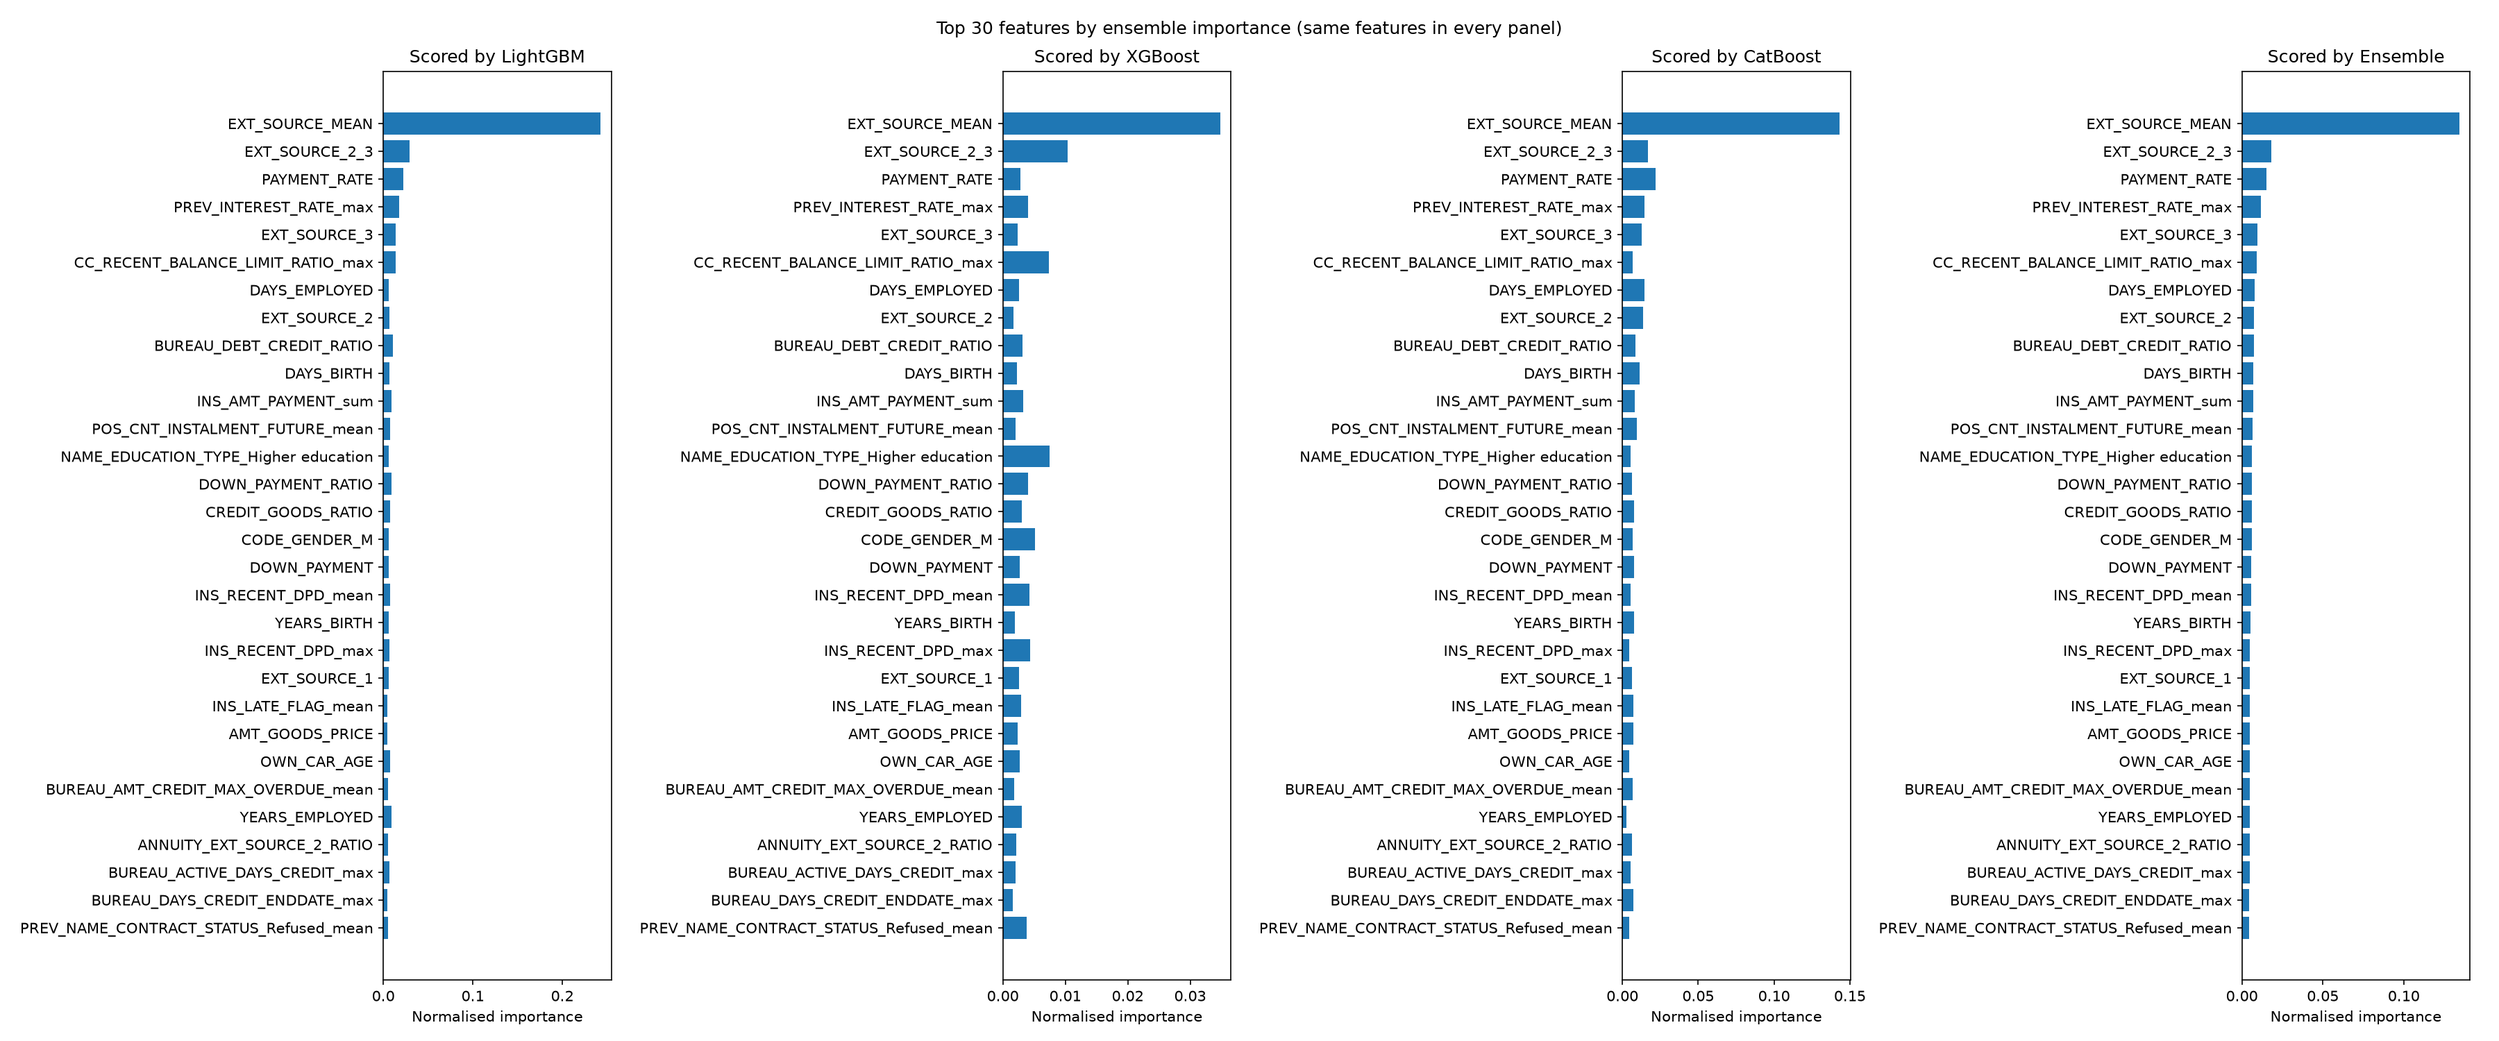
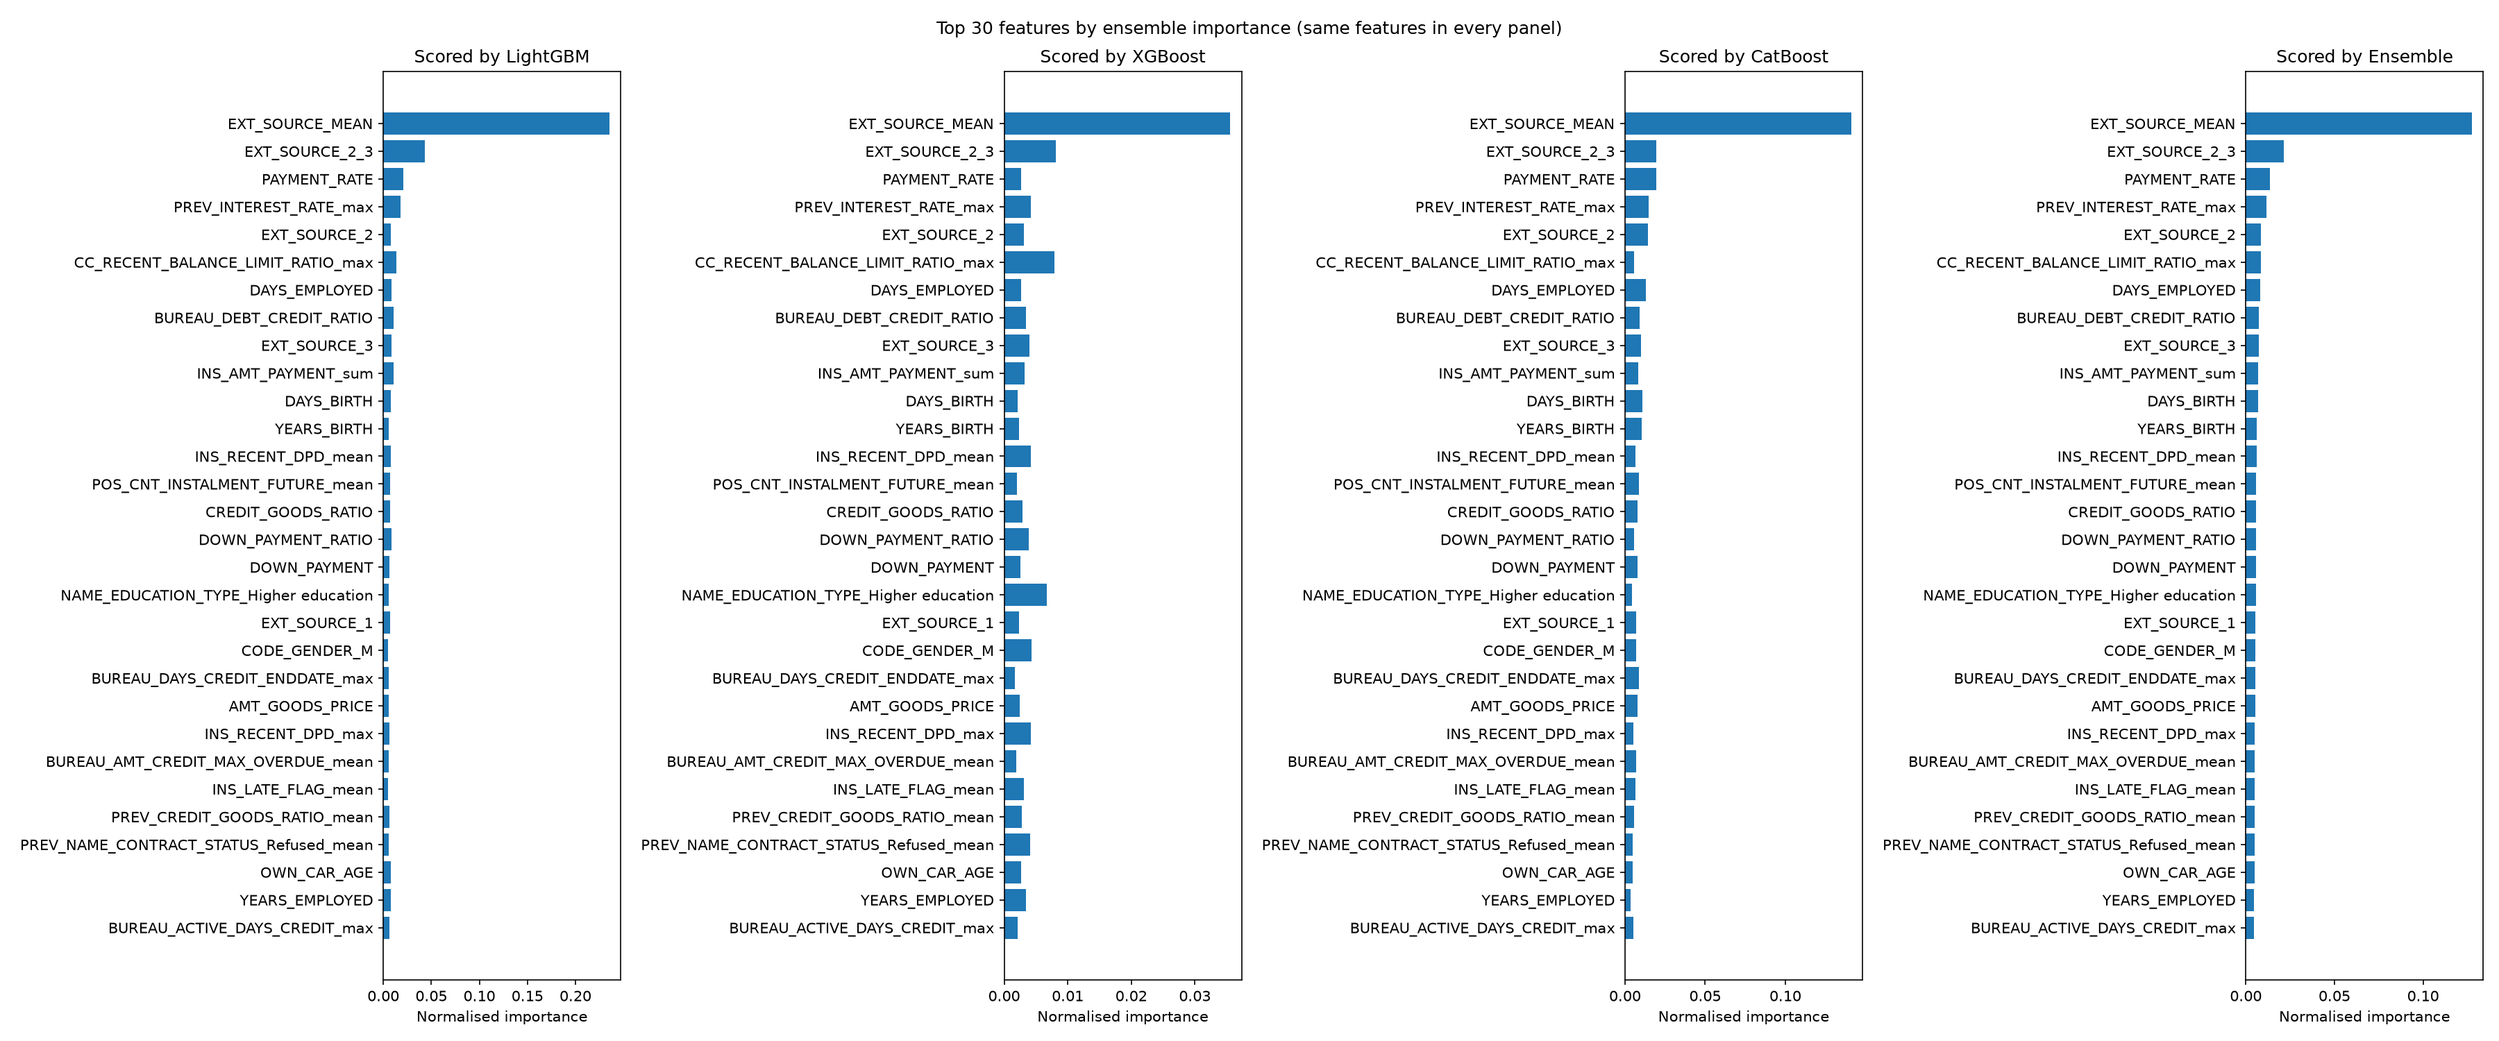
Update README.md

diff --git a/README.md b/README.md
@@ -28,27 +28,16 @@ flowchart LR
 
 <!-- results:start -->
 
-| Model | OOF AUC | Weight |
-|-------|---------|--------|
-| LightGBM | 0.79084 | 0.28 |
-| XGBoost | 0.79117 | 0.34 |
-| CatBoost | 0.79066 | 0.38 |
-| **Ensemble** | **0.79373** | - |
+| Model | OOF AUC | Holdout AUC | Weight |
+|-------|---------|-------------|--------|
+| LightGBM | 0.79025 | 0.79462 | 0.26 |
+| XGBoost | 0.79062 | 0.79518 | 0.36 |
+| CatBoost | 0.79019 | 0.79375 | 0.38 |
+| **Ensemble** | **0.79322** | **0.79571** | - |
 
-<sub>3-fold CV · 307,511 rows · 657 features · no holdout</sub>
+<sub>61,503-row holdout (20%) split off before any CV · 5-fold CV · 307,511 rows · 611 features from `params/selected_features.json` · feature-set sha256 `7991202a5e46`</sub>
 
 <!-- results:end -->
-
-> **These numbers predate the holdout split and the move to 5 folds.** They are the
-> last full run and are kept because they are real, not because they are current.
-> The pipeline now takes a 20% stratified slice off before any cross-validation and
-> runs 5 folds, so every figure above will move when the run below is executed.
-> Delete this note once it is.
->
-> ```powershell
-> python train.py --save-features
-> python explain.py; python evaluate.py; python update_readme.py
-> ```
 
 `update_readme.py` rewrites the table and the provenance line under it from
 `predictions/results.json`, so the fold count, holdout size, row count, feature count
@@ -65,18 +54,36 @@ they were drawn on, and optimistic by construction; the three single-model AUCs
 beside it are not.
 
 Earlier versions of this README bounded that optimism by argument - the weight
-surface is a broad plateau, 16% of the grid lands within 0.0002 of the best score,
-so there is little room to overfit. That argument is still true and the plot below
-still shows it, but it is now supporting colour rather than the bound. A stratified
+surface is a broad plateau, 16.5% of the grid lands within 0.0002 of the best score,
+so there is little room to overfit. The plateau is real and the plot below still
+shows it, but it turns out to bound the wrong thing. It says that picking the *wrong*
+weights costs almost nothing; it says nothing about whether the blend's advantage over
+its own members is real, and that is the quantity the headline rests on. A stratified
 20% slice is held back before any cross-validation, the weights are tuned on the
 remaining 80%, and those weights are applied to the held-out slice exactly once.
 `results.json` reports two figures from that:
 
-- **`oof_minus_holdout`** - the headline OOF number less the same blend measured
-  blind. It absorbs ordinary train/holdout sampling noise as well as the weight
-  search's optimism, so it bounds the latter rather than measuring it.
 - **`ensemble_gain_holdout`** - the ensemble less the best single model, both on the
   same unseen rows. This is the one that isolates what the blend actually buys.
+- **`oof_minus_holdout`** - the headline OOF number less the same blend measured
+  blind. Reported for completeness, but read the first figure instead: this one is
+  not a clean measurement, for the reason given below.
+
+**What it says.** On out-of-fold predictions the ensemble beats the best single model
+by **+0.00260**. On the held-out slice, with the weights frozen, that gain falls to
+**+0.00053**. Both comparisons are internally like-for-like, so the difference is the
+weight search scoring itself on its own data: roughly four fifths of the apparent
+ensemble gain is optimism. The blend is still worth having, but it buys about half a
+basis point over simply using XGBoost alone, not two and a half.
+
+**Why `oof_minus_holdout` came out negative.** It is -0.00249, meaning the holdout
+scored *higher* than the OOF number it was supposed to deflate. That is not evidence
+the weight search was unbiased. Each OOF prediction comes from the single fold model
+that did not train on that row, while each holdout prediction is the average of all
+five fold models, and averaging five boosters is worth a few basis points on its own.
+The comparison is therefore biased toward the holdout by construction, on top of
+ordinary sampling noise on 61,503 rows. It bounds nothing usefully, which is why the
+gain figure above is the one the conclusion rests on.
 
 ![Ensemble ROC curve](reports/roc_curve.png)
 
@@ -86,32 +93,72 @@ All four panels rank the *same* features by ensemble importance and show what ea
 
 ![Ensemble OOF AUC across the blend weight grid](reports/weight_tuning.png)
 
-Every corner of that triangle is a single model at weight 1.0, and all three are dark - any reasonable blend beats any individual model. The optimum is also a broad plateau rather than a peak: 16% of the 1,326 grid points land within 0.0002 of the best score, and the entire surface spans just 0.00307.
+Every corner of that triangle is a single model at weight 1.0, and the three corners are the three lowest points on the whole surface (0.79019, 0.79025, 0.79062), so on out-of-fold data any blend at all beats any individual model. The optimum is a broad plateau rather than a peak: 16.5% of the 1,326 grid points land within 0.0002 of the best score, and the entire surface spans just 0.00303. Note that the span and the blend's apparent advantage over the corners are the same size, which is the visual form of the point made above - and the holdout says most of that height is not real.
 
 ## Key Findings
 
-- External data source scores dominate predictive signal: the 16 `EXT_SOURCE`-derived features account for 20.8% of ensemble importance, and the engineered `EXT_SOURCE_MEAN` alone accounts for 13.4% - more than the next eleven features combined
-- The strongest non-`EXT_SOURCE` predictors are `PAYMENT_RATE`, `PREV_INTEREST_RATE_max`, and `CC_RECENT_BALANCE_LIMIT_RATIO_max` - all three engineered, and all ahead of the best raw column outside `EXT_SOURCE` (`DAYS_EMPLOYED`)
-- Tuning LightGBM moved it from 0.78791 to 0.79084, closing the gap to the other two models. Blend weights shifted from 0.14/0.42/0.44 to a near-even 0.28/0.34/0.38 as a result
-- Cumulative-importance feature selection is close to free: XGBoost, whose hyperparameters did not change between runs, scored 0.79117 on the retained 657 features against 0.79102 on the original 951 - unchanged within noise after dropping 31% of them
-- The ensemble still beats the best single model by +0.0026 even though the three now score within 0.0006 of each other, so their errors stay decorrelated despite near-identical accuracy
+- **The ensemble buys far less than out-of-fold scoring suggests.** It beats the best single model by +0.00260 measured out-of-fold, and by +0.00053 on the held-out slice with the weights frozen. About four fifths of the apparent gain was the weight search scoring itself on its own data
+- **External data source scores dominate, but less than the built-in importances claim.** The 16 `EXT_SOURCE`-derived features take 20.4% of ensemble importance by the built-in measures and 16.6% by TreeSHAP, with `EXT_SOURCE_MEAN` ranked first on both. The section above sets out why the two disagree
+- The strongest non-`EXT_SOURCE` predictors are `PAYMENT_RATE` and `PREV_INTEREST_RATE_max` - ranked 2nd and 3rd by SHAP, 3rd and 4th by gain - both engineered, and both ahead of the best raw column outside `EXT_SOURCE` (`DAYS_EMPLOYED`, 7th on either measure)
+- **What the ensemble does buy is measured against a scorecard, not against its own parts.** A cross-fitted L2 logistic regression on the same 611 features scores 0.77988 on the same holdout, so the ensemble is worth +0.01582 AUC over it - thirty times what the blend is worth over its own best member. Most of the distance from a scorecard is bought by the gradient boosting, and most of the rest by the feature engineering that both models share
+- **The probabilities are already well calibrated and do not need fixing.** Calibration slope 1.062, Brier 0.06494, and every decile within 0.5 percentage points of its observed rate except the riskiest, where the model under-predicts by 1.6pp. Isotonic recalibration fitted on the OOF predictions moved the slope to 1.026 but left the Brier score unchanged (0.06495) and cost 0.00026 AUC, since a step function collapses ties. It is reported and not adopted
+- The three models now score within 0.0006 of each other out-of-fold and within 0.0015 on the holdout, and the tuned blend weights are near-even at 0.26/0.36/0.38. There is no longer a meaningfully best model here, which is also why the blend has so little left to add
+- Tuning LightGBM moved it from 0.78791 to 0.79084, closing the gap to the other two models, and moved the blend weights from 0.14/0.42/0.44 towards even. Both figures come from the earlier 3-fold runs without a holdout, so they compare to each other and not to the table above
+- Cumulative-importance feature selection is close to free: XGBoost, whose hyperparameters did not change between runs, scored 0.79117 on the retained 657 features against 0.79102 on the original 951 - unchanged within noise after dropping 31% of them. Also a 3-fold pair
 - 3,120,184 rows of `bureau_balance.csv` (11.4%) reference a `SK_ID_BUREAU` that does not appear in `bureau.csv`, so that monthly history is silently dropped by the join. Surfaced by the schema check, not by anything in the feature code
 
-### A caveat on the 20.8%
+### That 20.4% is inflated, and SHAP says by about a fifth
 
-That figure is a blend of the models' built-in importances, and those are **not the
-same statistic across the three**. `lgbm_model.py` asks for gain, `xgb_model.py` sets
-`importance_type="gain"` on the constructor, but `catboost_model.py` was calling
+The figure above is a blend of the models' built-in importances, and those are **not
+the same statistic across the three**. `lgbm_model.py` asks for gain, `xgb_model.py`
+sets `importance_type="gain"` on the constructor, but `catboost_model.py` was calling
 `get_feature_importance()` with no argument, whose default for a Logloss model is
 `PredictionValuesChange` rather than gain. It now names the type explicitly so the
 difference is visible rather than implied by a default.
 
-Both families of importance are also known to favour high-cardinality continuous
-features, which is exactly what the `EXT_SOURCE` columns are - so the headline needed
-an independent check. `explain.py` computes exact TreeSHAP over a row sample and
-reports the rank correlation between the two rankings, the overlap of their top-20
-lists, and each method's `EXT_SOURCE` share. Run it after the next full run and
-record what it says here, whichever way it lands.
+Both families are also known to favour high-cardinality continuous features, which is
+exactly what the `EXT_SOURCE` columns are, so the headline needed an independent
+check. `explain.py` computes exact TreeSHAP - natively, via each library's own
+implementation - over 5,000 held-out rows and all fifteen fold models, and blends the
+three with the same frozen weights.
+
+| | Built-in | TreeSHAP |
+|---|---|---|
+| All 16 `EXT_SOURCE`-derived features | 20.4% | **16.6%** |
+| `EXT_SOURCE_MEAN` alone | 12.8% | **8.7%** |
+| Top-ranked feature | `EXT_SOURCE_MEAN` | `EXT_SOURCE_MEAN` |
+| Spearman rank correlation over all 611 features | 0.932 | |
+| Top-20 overlap | 11/20 | |
+
+**The bias is real and runs in the predicted direction.** The `EXT_SOURCE` block
+loses about a fifth of its credit under SHAP. The sharpest illustration is the claim
+this README used to make unqualified: `EXT_SOURCE_MEAN` scores more than the next
+eleven features combined under the built-in statistic (12.8% against 10.7%) and
+clearly less under SHAP (8.7% against 14.7%). That sentence was an artefact of the
+measure, not a fact about the model.
+
+**The qualitative finding survives.** Both methods put `EXT_SOURCE_MEAN` first by a
+wide margin, both agree on `PAYMENT_RATE` and `PREV_INTEREST_RATE_max` as the leading
+engineered predictors, and a Spearman correlation of 0.932 means the two rankings
+broadly agree. External scores still dominate; they dominate less than 20.4% implied.
+
+Where they disagree is instructive, and it is the textbook signature of the bias:
+
+- **Gain over-credits continuous columns with many split points.** `EXT_SOURCE_2`
+  falls from rank 5 to 24, `EXT_SOURCE_3` from 9 to 32, and
+  `CC_RECENT_BALANCE_LIMIT_RATIO_max` from 6 to 31.
+- **Gain under-credits binaries.** `CODE_GENDER_M` rises from rank 20 to 6, and
+  `NAME_FAMILY_STATUS_Married` from 46 to 9. A binary offers one split point and
+  reduces impurity modestly, while still shifting predictions a long way.
+
+One limit worth stating: TreeSHAP corrects the cardinality bias but **not** the
+splitting of credit between correlated features. `EXT_SOURCE_MEAN`, `EXT_SOURCE_2_3`
+and the raw `EXT_SOURCE_*` columns are correlated by construction, so SHAP divides the
+same underlying signal among them in a way that depends on the trees. The 16.6% group
+total is therefore the trustworthy number here; any individual member's share, in
+either column, is not.
+
+![TreeSHAP against the built-in importances](reports/shap_vs_gain.png)
 
 ## Repository Structure
 
@@ -151,7 +198,7 @@ tests/                      # Unit tests - synthetic data, no Kaggle download ne
 params/
   lgbm_best_params.json     # Best LightGBM hyperparameters from tune.py (loaded automatically)
   selected_features.json    # Pinned feature set (an *input*; promoted with --update-features)
-reports/                    # Committed plots (ROC curve, feature importances, weight tuning)
+reports/                    # Committed plots and the score band table
 models/                     # Saved fold models and manifest.json (gitignored - large)
 mlruns/                     # MLflow run history (gitignored)
 predictions/                # Generated predictions, metrics and feature caches (gitignored)
@@ -290,9 +337,49 @@ python evaluate.py
   cross-fitted on the same folds and scored on the same holdout. If the ensemble
   cannot beat a scorecard by a margin worth its operational cost, that is the finding
 
+### What it reports
+
+Measured on the 61,503-row holdout at an 8.07% base rate:
+
+| | Ensemble | Logistic baseline |
+|---|---|---|
+| AUC | 0.79571 | 0.77988 |
+| Gini | 0.5914 | 0.5598 |
+| KS | 0.4488 | 0.4239 |
+| Brier | 0.06494 | 0.06650 |
+| Calibration slope | 1.062 | 1.008 |
+
+The full decile table is in [`reports/score_bands.md`](reports/score_bands.md). The
+riskiest decile carries a **31.8% bad rate against an 8.07% base, a 3.93x lift, and
+holds 39.3% of every default in the slice**; the top three deciles hold 70.9% of them.
+The safest decile defaults at 0.78%.
+
+![Calibration by equal-count score bin](reports/calibration_curve.png)
+
+Calibration is good enough to use as a probability rather than only as a rank, which
+is not what gradient boosting on an 8% base rate usually gives you. The one
+systematic miss is in the riskiest decile, where the model predicts 30.2% against
+31.8% observed - conservative in the band where being wrong costs most.
+
+At the default **10:1** false-negative to false-positive cost the optimum is to
+decline above 0.0868, which approves 71.6% of applicants and cuts the bad rate among
+them from 8.07% to **3.46%** while declining 69.4% of all eventual defaults. The
+number that ratio is really asserting: it declines **4.1 good applicants for every
+default it avoids**. That is a business judgement about relative cost, not a property
+of the model, so `evaluate.py` also reports the cut-off at 2:1 through 50:1 and
+`--cost-fn` / `--cost-fp` override it.
+
+| Cost ratio | Threshold | Approved | Bad rate approved | Defaults declined |
+|---|---|---|---|---|
+| 2:1 | 0.2847 | 95.7% | 6.56% | 22.2% |
+| 5:1 | 0.1623 | 87.3% | 5.02% | 45.7% |
+| **10:1** | **0.0868** | **71.6%** | **3.46%** | **69.4%** |
+| 20:1 | 0.0497 | 52.5% | 2.28% | 85.2% |
+| 50:1 | 0.0193 | 19.2% | 1.13% | 97.3% |
+
 ## Design Decisions
 
-- **Ensemble over single model** - blending LightGBM, XGBoost and CatBoost outperforms any individual model in all runs
+- **Ensemble over single model, but honestly measured** - blending LightGBM, XGBoost and CatBoost beats every individual model on out-of-fold predictions in every run, and beats the best of them by +0.00053 on the holdout with the weights frozen. Kept because it is free at inference time and does not hurt, not because it is worth much
 - **Stratified K-Fold** - preserves the ~8% default rate in each fold, ensuring each fold is representative of the full dataset
 - **Holdout before cross-validation** - the blend weights are tuned on out-of-fold predictions, so measuring the ensemble on those same predictions is circular. A 20% slice split off before anything else touches the data is what makes the reported gap a measurement
 - **Cumulative importance feature selection** - retains features accounting for 99% of ensemble feature importance, automatically dropping zero- and near-zero-importance features on subsequent runs
@@ -394,3 +481,4 @@ works.
 - Feature interactions between EXT_SOURCE scores and credit/income ratios
 - Resolve the train/test null-handling asymmetry noted under Inference, which needs a full re-run to re-baseline every number
 - Population stability monitoring against the score bands, once there is a second batch to compare
+- Decide the blend deliberately rather than by inertia. +0.00053 over XGBoost alone on the holdout is close to free, but it is also close to nothing, and it triples the models to load and maintain at inference

diff --git a/reports/score_bands.md b/reports/score_bands.md
@@ -1,0 +1,18 @@
+# Score bands (holdout, 61,503 rows, 8.07% base rate)
+
+Band 1 is the highest-scoring, riskiest slice.
+
+| Band | n | Score range | Bad rate | Lift | Cumulative bad capture |
+|------|---|-------------|----------|------|------------------------|
+| 1 | 6,150 | 0.1882 to 0.8750 | 31.76% | 3.93x | 39.3% |
+| 2 | 6,150 | 0.1177 to 0.1882 | 15.25% | 1.89x | 58.2% |
+| 3 | 6,150 | 0.0824 to 0.1177 | 10.26% | 1.27x | 70.9% |
+| 4 | 6,151 | 0.0611 to 0.0824 | 6.94% | 0.86x | 79.5% |
+| 5 | 6,150 | 0.0465 to 0.0611 | 5.71% | 0.71x | 86.6% |
+| 6 | 6,150 | 0.0353 to 0.0465 | 3.69% | 0.46x | 91.2% |
+| 7 | 6,151 | 0.0269 to 0.0353 | 2.62% | 0.32x | 94.4% |
+| 8 | 6,150 | 0.0198 to 0.0269 | 2.15% | 0.27x | 97.1% |
+| 9 | 6,150 | 0.0133 to 0.0198 | 1.58% | 0.20x | 99.0% |
+| 10 | 6,151 | 0.0014 to 0.0133 | 0.78% | 0.10x | 100.0% |
+
+Gini 0.5914 · KS 0.4488 · Brier 0.06494
